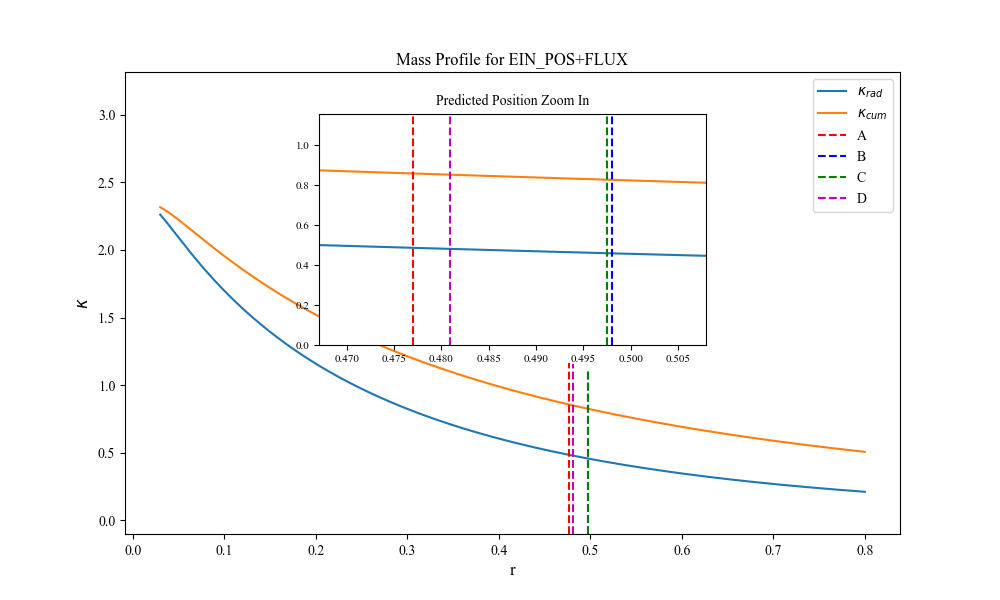
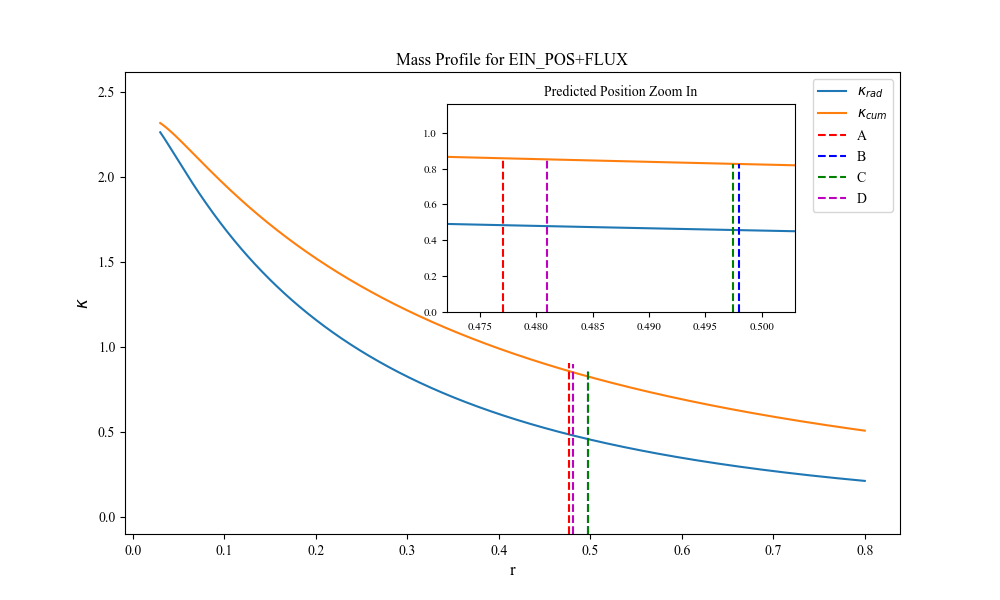
rerun mass profiles with updated plot

diff --git a/kappa_glafic.py b/kappa_glafic.py
@@ -1,7 +1,7 @@
 #!/usr/bin/env python
 import glafic
 
-glafic.init(0.3, 0.7, -1.0, 0.7, 'NFW/NFW_POS', 20.0, 20.0, 21.56, 21.56, 0.01, 0.01, 1, verb = 0)
+glafic.init(0.3, 0.7, -1.0, 0.7, 'EIN/EIN_POS+FLUX', 20.0, 20.0, 21.56, 21.56, 0.01, 0.01, 1, verb = 0)
 
 glafic.set_secondary('chi2_splane 0', verb = 0)
 glafic.set_secondary('chi2_checknimg 0', verb = 0)
@@ -11,8 +11,8 @@ glafic.set_secondary('hvary          0', verb = 0)
 glafic.set_secondary('ran_seed -122000', verb = 0)
 
 glafic.startup_setnum(1, 0, 1)
-glafic.set_lens(1, 'anfw', 0.2613, 2.085312e+11, 2.080884e+01, 2.075341e+01, 1.500761e-01, -4.431327e+00, 8.699047e+01, 0.000000e+00)
-glafic.set_point(1, 1.000, 1.0000, 2.081271e+01)
+glafic.set_lens(1, 'ein', 0.2613, 6.526618e+10, 2.080840e+01, 2.075116e+01, 1.479562e-01, -4.444363e+00, 4.999970e+01, 5.000000e-01)
+glafic.set_point(1, 1.000, 1.0000, 2.081241e+01)
 
 glafic.setopt_lens(1, 0, 0, 0, 0, 0, 0, 0, 0)
 glafic.setopt_point(1, 0, 0, 0)
@@ -21,7 +21,7 @@ glafic.setopt_point(1, 0, 0, 0)
 glafic.model_init(verb = 0)
 
 glafic.readobs_point('/Users/ainsleylewis/Documents/Astronomy/IllustrisTNG Lens Modelling/obs_point/obs_point_(POS).dat')
-glafic.kapparad(1.0000, 2.081271e+01, 2.077975e+01, 0.03, 0.8, 1000, 1)
-glafic.kappacum(1.0000, 2.081271e+01, 2.077975e+01, 0.03, 0.8, 1000, 1)
+glafic.kapparad(1.0000, 2.081241e+01, 2.077851e+01, 0.03, 0.8, 1000, 1)
+glafic.kappacum(1.0000, 2.081241e+01, 2.077851e+01, 0.03, 0.8, 1000, 1)
 
 glafic.quit()
